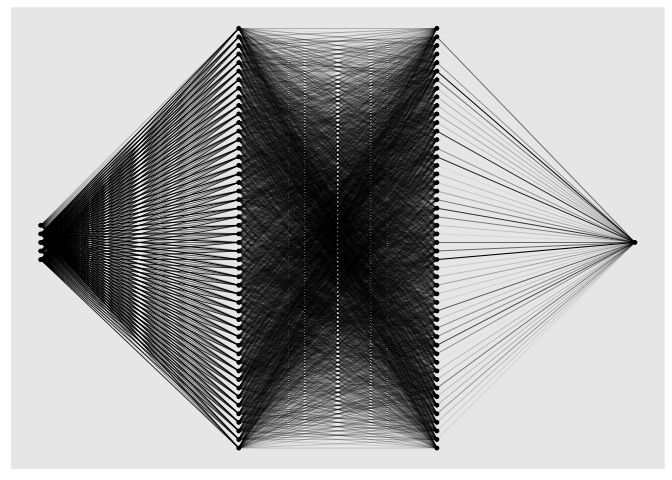
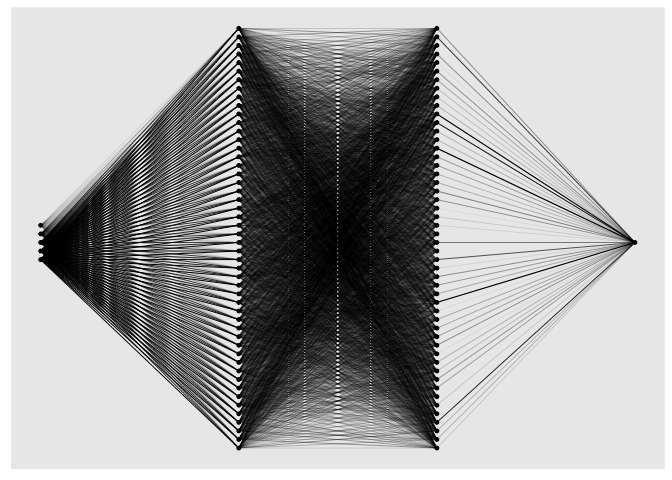
README

Changed region(s): [[0.0625, 0.0625, 0.9375, 0.9375], [0.5, 0.3438, 0.5312, 0.375]]

diff --git a/README.md b/README.md
@@ -95,11 +95,11 @@ summary(nn.fit)
     ##  ##########################################################
     ##      Feature Importance 
     ##  ##########################################################
-    ##                          Importance Std.Err Z value Pr(>|z|)   
-    ## Response_1: Sepal.Width       1.712   0.661    2.59   0.0096 **
-    ## Response_1: Petal.Length     19.370   6.446    3.00   0.0027 **
-    ## Response_1: Petal.Width       0.694   0.502    1.38   0.1668   
-    ## Response_1: Species           0.281   0.177    1.58   0.1130   
+    ##                          Importance Std.Err Z value Pr(>|z|)    
+    ## Response_1: Sepal.Width       1.815   0.557    3.26  0.00113 ** 
+    ## Response_1: Petal.Length     19.211   5.563    3.45  0.00055 ***
+    ## Response_1: Petal.Width       0.485   0.475    1.02  0.30690    
+    ## Response_1: Species           0.459   0.277    1.65  0.09826 .  
     ## ---
     ## Signif. codes:  0 '***' 0.001 '**' 0.01 '*' 0.05 '.' 0.1 ' ' 1
     ## 
@@ -108,9 +108,9 @@ summary(nn.fit)
     ##      Average Conditional Effects 
     ##  ##########################################################
     ##                              ACE Std.Err Z value Pr(>|z|)    
-    ## Response_1: Sepal.Width   0.7202  0.0666   10.82   <2e-16 ***
-    ## Response_1: Petal.Length  0.6395  0.0739    8.65   <2e-16 ***
-    ## Response_1: Petal.Width  -0.1916  0.1336   -1.43     0.15    
+    ## Response_1: Sepal.Width   0.7125  0.0791    9.01   <2e-16 ***
+    ## Response_1: Petal.Length  0.6436  0.0664    9.70   <2e-16 ***
+    ## Response_1: Petal.Width  -0.1560  0.1360   -1.15     0.25    
     ## ---
     ## Signif. codes:  0 '***' 0.001 '**' 0.01 '*' 0.05 '.' 0.1 ' ' 1
     ## 
@@ -118,10 +118,10 @@ summary(nn.fit)
     ##  ##########################################################
     ##      Standard Deviation of Conditional Effects 
     ##  ##########################################################
-    ##                             ACE Std.Err Z value Pr(>|z|)   
-    ## Response_1: Sepal.Width  0.1378  0.0467    2.95   0.0032 **
-    ## Response_1: Petal.Length 0.1096  0.0437    2.51   0.0121 * 
-    ## Response_1: Petal.Width  0.0520  0.0292    1.78   0.0749 . 
+    ##                             ACE Std.Err Z value Pr(>|z|)    
+    ## Response_1: Sepal.Width  0.1466  0.0430    3.41  0.00064 ***
+    ## Response_1: Petal.Length 0.1271  0.0411    3.09  0.00200 ** 
+    ## Response_1: Petal.Width  0.0487  0.0282    1.72  0.08482 .  
     ## ---
     ## Signif. codes:  0 '***' 0.001 '**' 0.01 '*' 0.05 '.' 0.1 ' ' 1
 
@@ -192,9 +192,9 @@ as.matrix(create_cov(nn.fit$loss$parameter$SigmaPar,
 ```
 
     ##            [,1]       [,2]       [,3]
-    ## [1,]  1.1261417 -0.2697209  0.2071757
-    ## [2,] -0.2697209 25.7208309 -0.1872581
-    ## [3,]  0.2071757 -0.1872581  0.1996000
+    ## [1,] 0.23374167 0.07131696 0.13503927
+    ## [2,] 0.07131696 0.09627343 0.03110428
+    ## [3,] 0.13503927 0.03110428 0.19582744
 
 Empirical covariance matrix:
 
@@ -203,6 +203,6 @@ cov(predict(nn.fit) - nn.fit$data$Y)
 ```
 
     ##              Sepal.Length Sepal.Width Petal.Length
-    ## Sepal.Length    0.2311693  0.10301748   0.12489735
-    ## Sepal.Width     0.1030175  0.42593235   0.05420866
-    ## Petal.Length    0.1248974  0.05420866   0.13383693
+    ## Sepal.Length   0.22601251  0.05944633   0.12786447
+    ## Sepal.Width    0.05944633  0.09067426   0.01754041
+    ## Petal.Length   0.12786447  0.01754041   0.14744435
